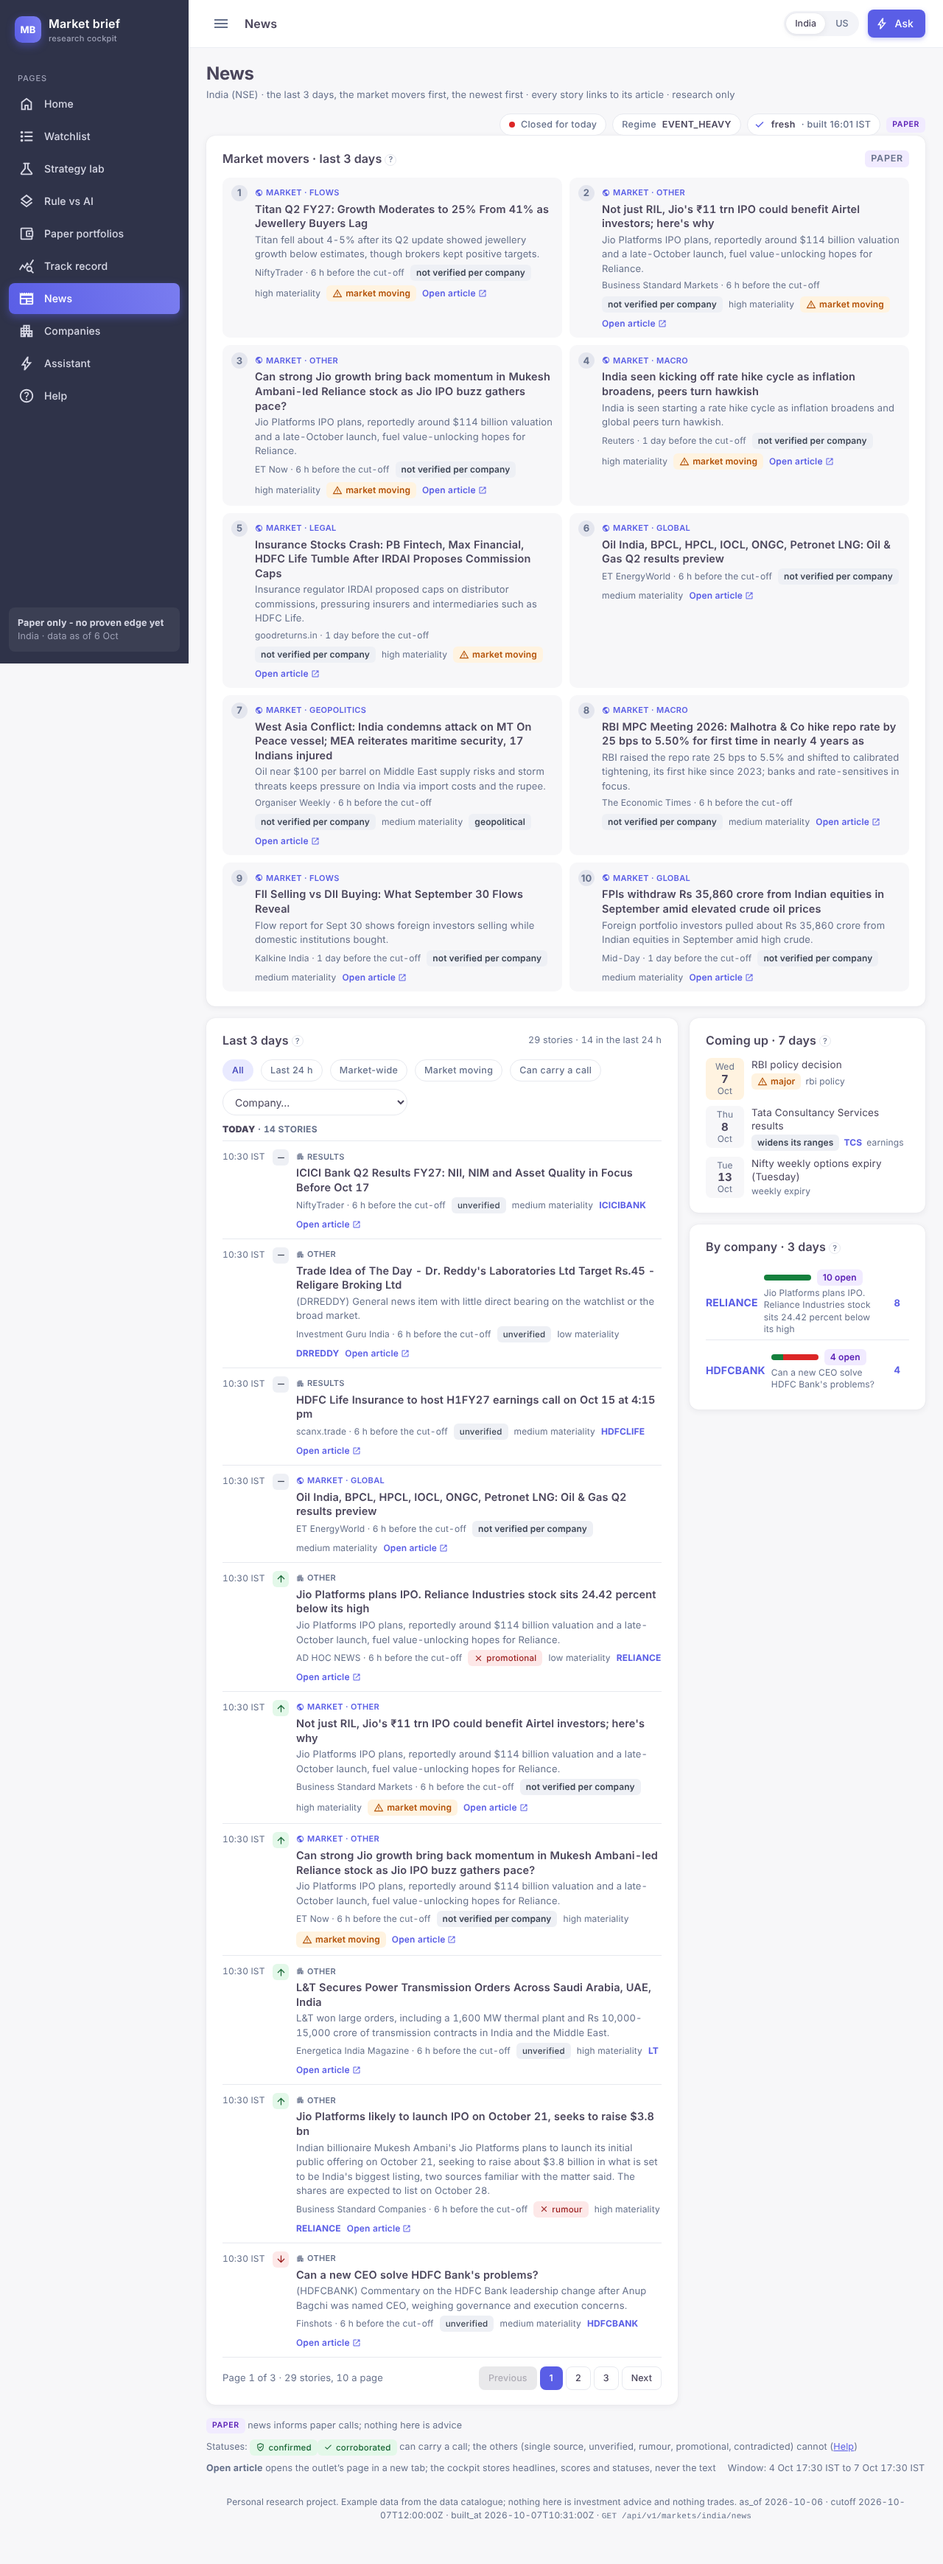
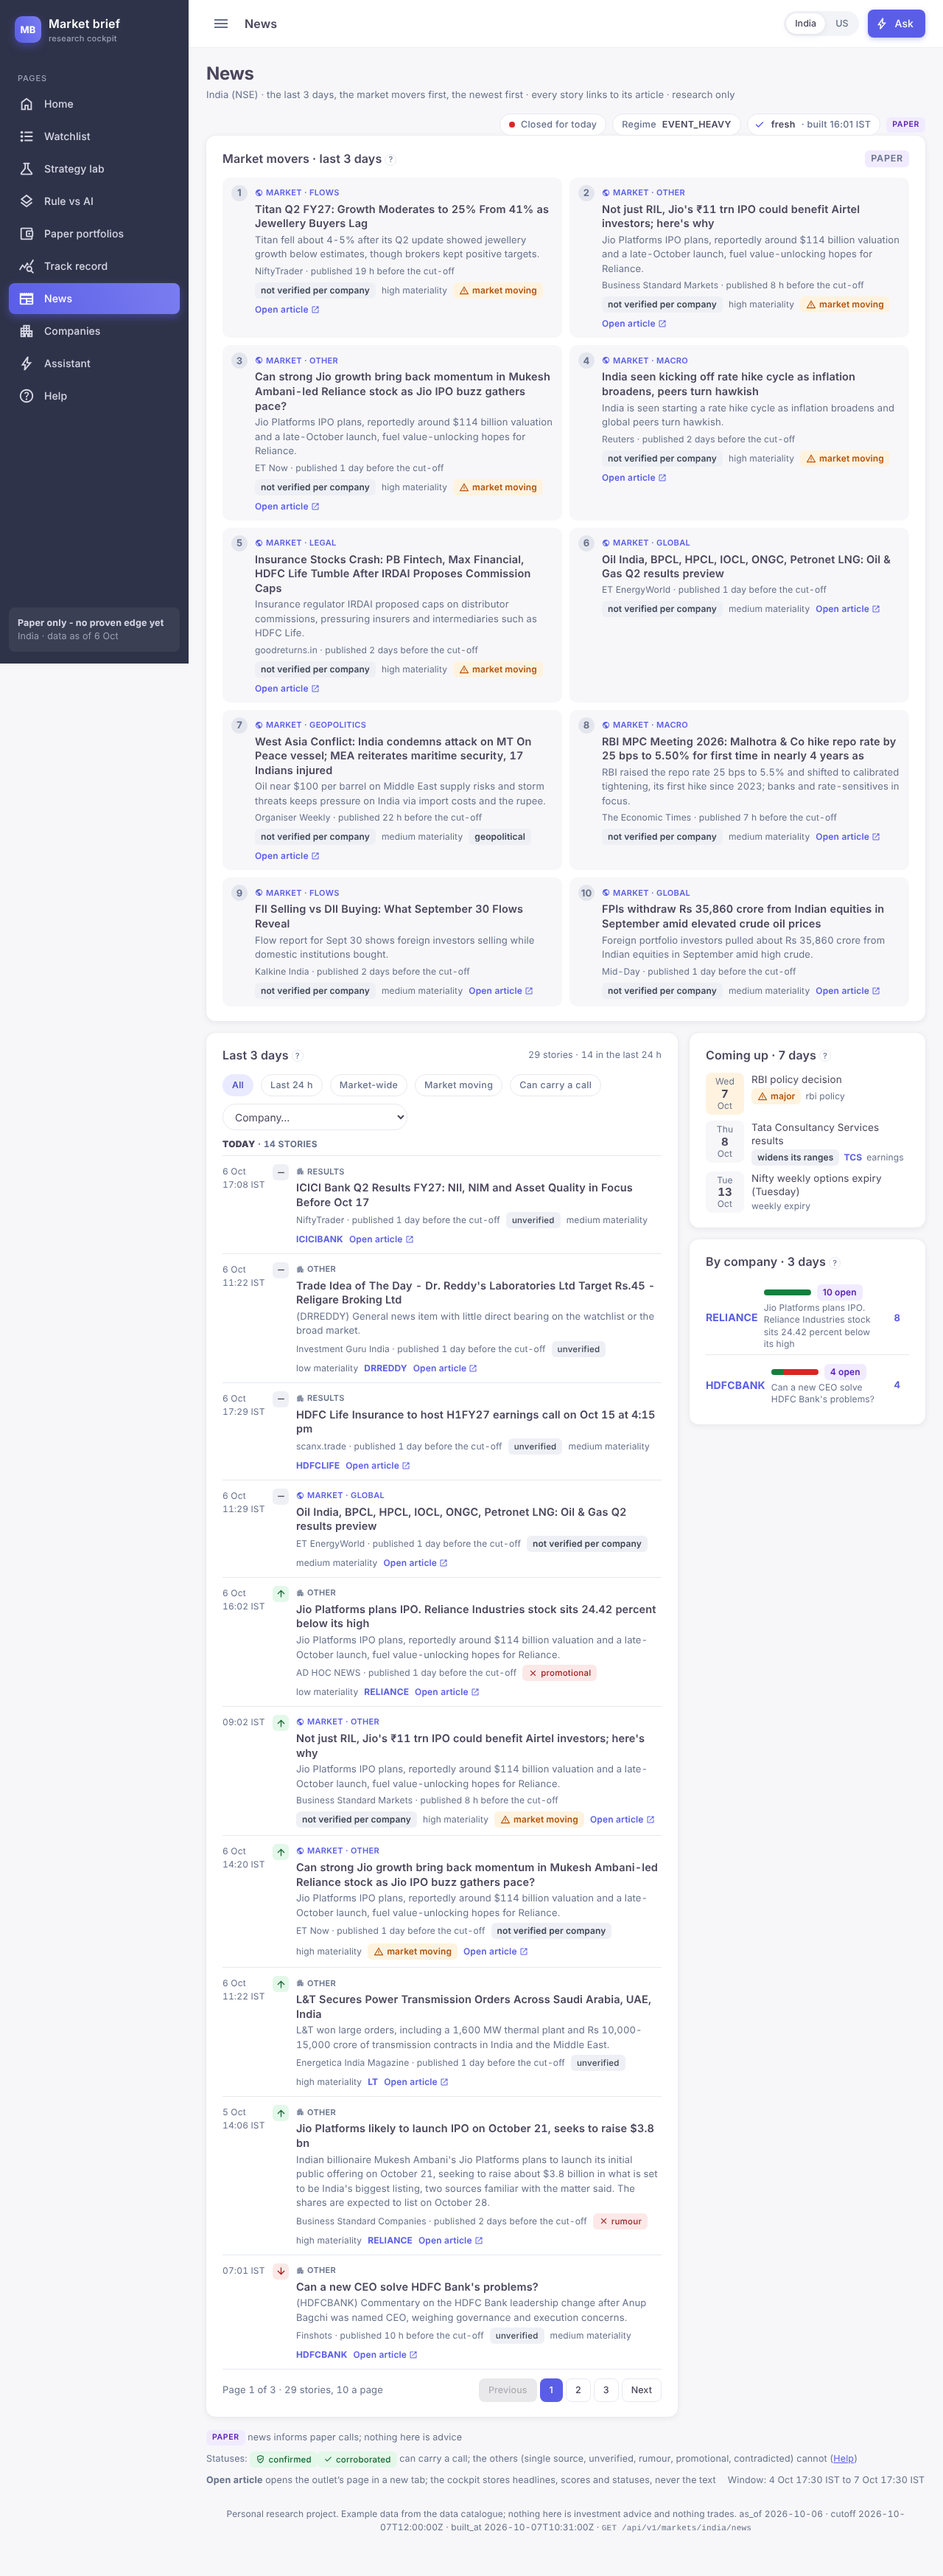
Design track: News mockup shows the outlet's publish time on every story (owner decision; the feed order stays latest stored first); rationale records the confirmed ranking and the at-most-10 band
Claude-Session: https://claude.ai/code/session_01RuLrYPoHyYoZ2LBEo834w9

diff --git a/design/mockups/09-news/page.html b/design/mockups/09-news/page.html
@@ -862,11 +862,11 @@ function itemBody(p, n, opts = {}) {
   const m = market, mkt = scopeOf(n) === 'market', kind = mkt && n.category && n.category !== 'company' && n.category !== 'general' ? n.category : (KIND[n.enrichment.event_type] || n.enrichment.event_type);
   const body = el('div', {class:'ni'});
   const head = el('div', {}, el('span', {class:'kind' + (mkt ? ' mkt' : ''), 'data-tip': mkt ? 'A market-wide story: no single company, it moves the whole market.' : `A company story (${n.tickers.join(', ')}).`}, icon(mkt ? 'ms-public' : 'ms-apartment'), mkt ? 'market · ' + kind : kind));
-  if (opts.time) head.append(el('span', {class:'muted', style:'font-size:12px'}, `${n.source} · ${fmtLocal(n.first_seen_at, m, true)}`));
+  if (opts.time) head.append(el('span', {class:'muted', style:'font-size:12px'}, `${n.source} · published ${fmtLocal(n.published_at, m, true)}`));
   body.append(head, el('h3', {}, el('a', {href: n.url, rel:'noopener', target:'_blank', 'data-tip': `Opens the article at ${n.source_domain} in a new tab. Stored here: the headline, its scores and status, never the text.`}, n.title)));
   if (n.summary) body.append(el('p', {class:'sum'}, n.summary));
   const meta = el('div', {class:'meta'});
-  if (!opts.time) meta.append(el('span', {}, `${n.source} · ${ago(p, n.first_seen_at)}`));
+  if (!opts.time) meta.append(el('span', {'data-tip': `Published by ${n.source} ${fmtLocal(n.published_at, m, true)}; first stored here ${fmtLocal(n.first_seen_at, m, true)}.`}, `${n.source} · published ${ago(p, n.published_at)}`));
   meta.append(n.status ? statusBadge(n.status) : el('span', {class:'mb-label neutral', 'data-tip':'Market-wide stories carry no verification status: verification is per company (DESIGN 3b).'}, 'not verified per company'), el('span', {'data-tip': 'The news analyst’s materiality: how much the story can move the price.'}, `${n.enrichment.materiality} materiality`));
   if (n.market_moving) meta.append(el('span', {class:'mb-label warn', 'data-tip':'The engine’s market-moving flag: high materiality and market-wide or a results item.'}, icon('ms-warning'), 'market moving'));
   if (n.enrichment.geopolitical) meta.append(el('span', {class:'mb-label neutral', 'data-tip':'The news analyst marked it geopolitical.'}, 'geopolitical'));
@@ -890,7 +890,7 @@ function moversCard(p) {
 function feedCard(p) {
   const m = market, card = el('section', {class:'card', 'aria-label':'All stories of the window'});
   const last24 = p.news.filter(n => hoursBefore(p, n.first_seen_at) < NEWS_RECENT_HOURS).length;
-  card.append(el('div', {class:'head'}, el('h2', {}, `Last ${p.window.days} days`, help(`Every story first seen in the ${p.window.days} days before the cut-off, newest first, ${NEWS_PAGE_SIZE} a page and at most ${p.window.max_items} in all (the owner's rule: a short trading window needs no older news). Older stories stay in the data; the Company page shows every stored story about a company. Filters: the last ${NEWS_RECENT_HOURS} hours, market-wide, the engine's market-moving flag, one company, or only stories that can carry a call (confirmed or corroborated).`)), el('span', {class:'end muted'}, `${p.news.length} stor${p.news.length === 1 ? 'y' : 'ies'} · ${last24} in the last ${NEWS_RECENT_HOURS} h`)));
+  card.append(el('div', {class:'head'}, el('h2', {}, `Last ${p.window.days} days`, help(`Every story first seen in the ${p.window.days} days before the cut-off, the latest stored first (the time shown is the outlet's publish time; the day groups follow the day the story was stored), ${NEWS_PAGE_SIZE} a page and at most ${p.window.max_items} in all (the owner's rule: a short trading window needs no older news). Older stories stay in the data; the Company page shows every stored story about a company. Filters: the last ${NEWS_RECENT_HOURS} hours, market-wide, the engine's market-moving flag, one company, or only stories that can carry a call (confirmed or corroborated).`)), el('span', {class:'end muted'}, `${p.news.length} stor${p.news.length === 1 ? 'y' : 'ies'} · ${last24} in the last ${NEWS_RECENT_HOURS} h`)));
   const bar = el('div', {class:'toolbar'});
   const chip = (key, label, tipText) => { const b = el('button', {type:'button', class:'md-chip filter', 'aria-pressed': String(filter === key && !ticker), 'data-tip': tipText}, label); b.addEventListener('click', () => { filter = key; ticker = null; pageNo = 1; render(); }); return b; };
   bar.append(chip('all', 'All', 'Every story of the window.'), chip('24h', `Last ${NEWS_RECENT_HOURS} h`, `First seen in the ${NEWS_RECENT_HOURS} hours before the cut-off.`), chip('market', 'Market-wide', 'Stories about no single company.'), chip('moving', 'Market moving', 'The engine’s flag: high materiality and market-wide or a results item.'), chip('carry', 'Can carry a call', 'Confirmed by a filing or corroborated by independent outlets: the only statuses that may be the main evidence of a call.'));
@@ -912,7 +912,7 @@ function feedCard(p) {
   for (const n of slice) {
     const dk = dayKey(n.first_seen_at, m);
     if (dk !== lastDay) { lastDay = dk; const count = items.filter(x => dayKey(x.first_seen_at, m) === dk).length; feed.append(el('div', {class:'day'}, el('b', {}, dk === sessionDay ? 'Today' : dk), ` · ${count} stor${count === 1 ? 'y' : 'ies'}`)); }
-    feed.append(el('div', {class:'row'}, el('span', {class:'tm', 'data-tip': `First stored ${fmtLocal(n.first_seen_at, m, true)}; the outlet published it ${fmtLocal(n.published_at, m, true)}.`}, fmtLocal(n.first_seen_at, m, false)), sentSquare(n.enrichment.sentiment), itemBody(p, n)));
+    feed.append(el('div', {class:'row'}, el('span', {class:'tm', 'data-tip': `Published ${fmtLocal(n.published_at, m, true)}; first stored here ${fmtLocal(n.first_seen_at, m, true)} (the order of the feed).`}, fmtLocal(n.published_at, m, dayKey(n.published_at, m) !== dayKey(n.first_seen_at, m))), sentSquare(n.enrichment.sentiment), itemBody(p, n)));
   }
   card.append(feed);
   const pager = el('div', {class:'pager'}); pager.append(el('span', {}, `Page ${pageNo} of ${pages} · ${items.length} stor${items.length === 1 ? 'y' : 'ies'}, ${NEWS_PAGE_SIZE} a page`));

diff --git a/design/mockups/09-news/template.html b/design/mockups/09-news/template.html
@@ -102,11 +102,11 @@ function itemBody(p, n, opts = {}) {
   const m = market, mkt = scopeOf(n) === 'market', kind = mkt && n.category && n.category !== 'company' && n.category !== 'general' ? n.category : (KIND[n.enrichment.event_type] || n.enrichment.event_type);
   const body = el('div', {class:'ni'});
   const head = el('div', {}, el('span', {class:'kind' + (mkt ? ' mkt' : ''), 'data-tip': mkt ? 'A market-wide story: no single company, it moves the whole market.' : `A company story (${n.tickers.join(', ')}).`}, icon(mkt ? 'ms-public' : 'ms-apartment'), mkt ? 'market · ' + kind : kind));
-  if (opts.time) head.append(el('span', {class:'muted', style:'font-size:12px'}, `${n.source} · ${fmtLocal(n.first_seen_at, m, true)}`));
+  if (opts.time) head.append(el('span', {class:'muted', style:'font-size:12px'}, `${n.source} · published ${fmtLocal(n.published_at, m, true)}`));
   body.append(head, el('h3', {}, el('a', {href: n.url, rel:'noopener', target:'_blank', 'data-tip': `Opens the article at ${n.source_domain} in a new tab. Stored here: the headline, its scores and status, never the text.`}, n.title)));
   if (n.summary) body.append(el('p', {class:'sum'}, n.summary));
   const meta = el('div', {class:'meta'});
-  if (!opts.time) meta.append(el('span', {}, `${n.source} · ${ago(p, n.first_seen_at)}`));
+  if (!opts.time) meta.append(el('span', {'data-tip': `Published by ${n.source} ${fmtLocal(n.published_at, m, true)}; first stored here ${fmtLocal(n.first_seen_at, m, true)}.`}, `${n.source} · published ${ago(p, n.published_at)}`));
   meta.append(n.status ? statusBadge(n.status) : el('span', {class:'mb-label neutral', 'data-tip':'Market-wide stories carry no verification status: verification is per company (DESIGN 3b).'}, 'not verified per company'), el('span', {'data-tip': 'The news analyst’s materiality: how much the story can move the price.'}, `${n.enrichment.materiality} materiality`));
   if (n.market_moving) meta.append(el('span', {class:'mb-label warn', 'data-tip':'The engine’s market-moving flag: high materiality and market-wide or a results item.'}, icon('ms-warning'), 'market moving'));
   if (n.enrichment.geopolitical) meta.append(el('span', {class:'mb-label neutral', 'data-tip':'The news analyst marked it geopolitical.'}, 'geopolitical'));
@@ -130,7 +130,7 @@ function moversCard(p) {
 function feedCard(p) {
   const m = market, card = el('section', {class:'card', 'aria-label':'All stories of the window'});
   const last24 = p.news.filter(n => hoursBefore(p, n.first_seen_at) < NEWS_RECENT_HOURS).length;
-  card.append(el('div', {class:'head'}, el('h2', {}, `Last ${p.window.days} days`, help(`Every story first seen in the ${p.window.days} days before the cut-off, newest first, ${NEWS_PAGE_SIZE} a page and at most ${p.window.max_items} in all (the owner's rule: a short trading window needs no older news). Older stories stay in the data; the Company page shows every stored story about a company. Filters: the last ${NEWS_RECENT_HOURS} hours, market-wide, the engine's market-moving flag, one company, or only stories that can carry a call (confirmed or corroborated).`)), el('span', {class:'end muted'}, `${p.news.length} stor${p.news.length === 1 ? 'y' : 'ies'} · ${last24} in the last ${NEWS_RECENT_HOURS} h`)));
+  card.append(el('div', {class:'head'}, el('h2', {}, `Last ${p.window.days} days`, help(`Every story first seen in the ${p.window.days} days before the cut-off, the latest stored first (the time shown is the outlet's publish time; the day groups follow the day the story was stored), ${NEWS_PAGE_SIZE} a page and at most ${p.window.max_items} in all (the owner's rule: a short trading window needs no older news). Older stories stay in the data; the Company page shows every stored story about a company. Filters: the last ${NEWS_RECENT_HOURS} hours, market-wide, the engine's market-moving flag, one company, or only stories that can carry a call (confirmed or corroborated).`)), el('span', {class:'end muted'}, `${p.news.length} stor${p.news.length === 1 ? 'y' : 'ies'} · ${last24} in the last ${NEWS_RECENT_HOURS} h`)));
   const bar = el('div', {class:'toolbar'});
   const chip = (key, label, tipText) => { const b = el('button', {type:'button', class:'md-chip filter', 'aria-pressed': String(filter === key && !ticker), 'data-tip': tipText}, label); b.addEventListener('click', () => { filter = key; ticker = null; pageNo = 1; render(); }); return b; };
   bar.append(chip('all', 'All', 'Every story of the window.'), chip('24h', `Last ${NEWS_RECENT_HOURS} h`, `First seen in the ${NEWS_RECENT_HOURS} hours before the cut-off.`), chip('market', 'Market-wide', 'Stories about no single company.'), chip('moving', 'Market moving', 'The engine’s flag: high materiality and market-wide or a results item.'), chip('carry', 'Can carry a call', 'Confirmed by a filing or corroborated by independent outlets: the only statuses that may be the main evidence of a call.'));
@@ -152,7 +152,7 @@ function feedCard(p) {
   for (const n of slice) {
     const dk = dayKey(n.first_seen_at, m);
     if (dk !== lastDay) { lastDay = dk; const count = items.filter(x => dayKey(x.first_seen_at, m) === dk).length; feed.append(el('div', {class:'day'}, el('b', {}, dk === sessionDay ? 'Today' : dk), ` · ${count} stor${count === 1 ? 'y' : 'ies'}`)); }
-    feed.append(el('div', {class:'row'}, el('span', {class:'tm', 'data-tip': `First stored ${fmtLocal(n.first_seen_at, m, true)}; the outlet published it ${fmtLocal(n.published_at, m, true)}.`}, fmtLocal(n.first_seen_at, m, false)), sentSquare(n.enrichment.sentiment), itemBody(p, n)));
+    feed.append(el('div', {class:'row'}, el('span', {class:'tm', 'data-tip': `Published ${fmtLocal(n.published_at, m, true)}; first stored here ${fmtLocal(n.first_seen_at, m, true)} (the order of the feed).`}, fmtLocal(n.published_at, m, dayKey(n.published_at, m) !== dayKey(n.first_seen_at, m))), sentSquare(n.enrichment.sentiment), itemBody(p, n)));
   }
   card.append(feed);
   const pager = el('div', {class:'pager'}); pager.append(el('span', {}, `Page ${pageNo} of ${pages} · ${items.length} stor${items.length === 1 ? 'y' : 'ies'}, ${NEWS_PAGE_SIZE} a page`));

diff --git a/design/mockups/09-news/rationale.md b/design/mockups/09-news/rationale.md
@@ -31,7 +31,7 @@ from any site, only the conventions.
 1. **Page head** (the shell's chips).
 2. **Market movers · last 3 days**: up to 10 ranked cards in two columns: rank, the kind of story (market-wide
    stories carry a globe and the word "market"), the headline as the link, the summary line when the data has one,
-   the source and "n hours before the cut-off", the status badge, the materiality, how many outlets carry it, the
+   the source and "published n hours before the cut-off", the status badge, the materiality, how many outlets carry it, the
    companies as links to their pages, and "Open article". Ranking: the engine's market-moving flag first (W1's rule:
    high materiality and market-wide or a results item, shown as an amber "market moving" label), then market-wide
    stories, the watchlist's results and high materiality, newest first within each rank; the same headline stored
@@ -39,8 +39,8 @@ from any site, only the conventions.
    verification is per company. An honest empty state when the window has none.
 3. **Last 3 days** (the feed): filter chips (All, Last 24 h, Market-wide, Market moving, Can carry a call) and a
    company select; a note when most stories have no summary line;
-   stories grouped by the local day with a sticky header ("Today · n stories"), each row with the local time (its
-   tooltip has the first-stored and published times), the sentiment arrow, the same item body as the band; a pager
+   stories grouped by the local day they were stored, with a sticky header ("Today · n stories"), each row with the
+   outlet's publish time (with its date when it differs from the stored day; the tooltip has both times), the sentiment arrow, the same item body as the band; a pager
    (10 a page, at most 50 in the window) that scrolls the feed into view.
 4. **Rail: Coming up · 7 days**: the market's scheduled events and the active companies' results and ex-dividend
    dates from the session being predicted, a date tile each, "major" (widens every range) in amber, "widens its
@@ -89,13 +89,16 @@ now explains its empty state and a note says when stories show the headline alon
 0.05 sentiment band were typed in the template (now the shell's `NEWS_RECENT_HOURS` and `SENTIMENT_FLAT_BAND`, the
 latter also used by the shell's sentiment arrow).
 
-## Decisions taken for the owner (reported to the orchestrator; to confirm)
+## Decisions taken for the owner (reported to the orchestrator; confirmed in part, see the last bullet)
 - The movers are a ranked band of cards above the feed, not a separate tab, so the first screen answers "what
   moves the market" and the feed is one scroll away.
 - The feed is grouped by day with sticky headers and filtered by chips rather than split into "today" and "older"
   cards: one list, newest first, the owner's filters on top.
 - The rail holds the calendar (the week ahead) and the news per company; "big news" lives in the band, so the rail
   does not repeat it.
+- Confirmed by the owner (2026-10-08, after the first review): the ranking rule stays, the band shows at most 10 (not
+  always 10), and every story shows the outlet's publish time rather than the collection time (the order of the
+  feed stays "latest stored first", the owner's earlier rule).
 - Market-wide stories are the catalogue's `scope` market (the tagger found no primary watchlist company); each
   market's page shows the stories its own feeds carried, so a Fed story appears in India only when India's feeds had
   it.

diff --git a/design/mockups/09-news/notes.md b/design/mockups/09-news/notes.md
@@ -24,8 +24,9 @@ the filters (last 24 h = first seen in the `NEWS_RECENT_HOURS` before the cut-of
 the flag; can carry a call = confirmed or corroborated; one company), the kind word (a market-wide story's `category`
 when it is not `company` or `general`, else the event type in words), the "not verified per company" badge for the
 empty status of a market-wide story, the day groups (the
-local date of `first_seen_at`), the pagination (`NEWS_PAGE_SIZE` a page), "n h/days before the cut-off" (from
-`first_seen_at` against the cut-off, never the viewer's clock), the per-company counts and the sentiment mix (positive
+local date of `first_seen_at`; the time shown on a row and in the band is the outlet's `published_at`, with the
+stored time in the tooltip, the owner's decision of 2026-10-08), the pagination (`NEWS_PAGE_SIZE` a page), "n h/days before the cut-off" (from
+`published_at` against the cut-off, never the viewer's clock), the per-company counts and the sentiment mix (positive
 above `SENTIMENT_FLAT_BAND`, negative below its negative), and a note under the filters when more than half of the
 stories have no summary line. The page never shows the stored text: the headline links to the outlet's article (`url`) and the `summary` is the
 catalogue's one-or-two-line summary (`summary_source` article or analyst; empty for most US items, whose analyst
